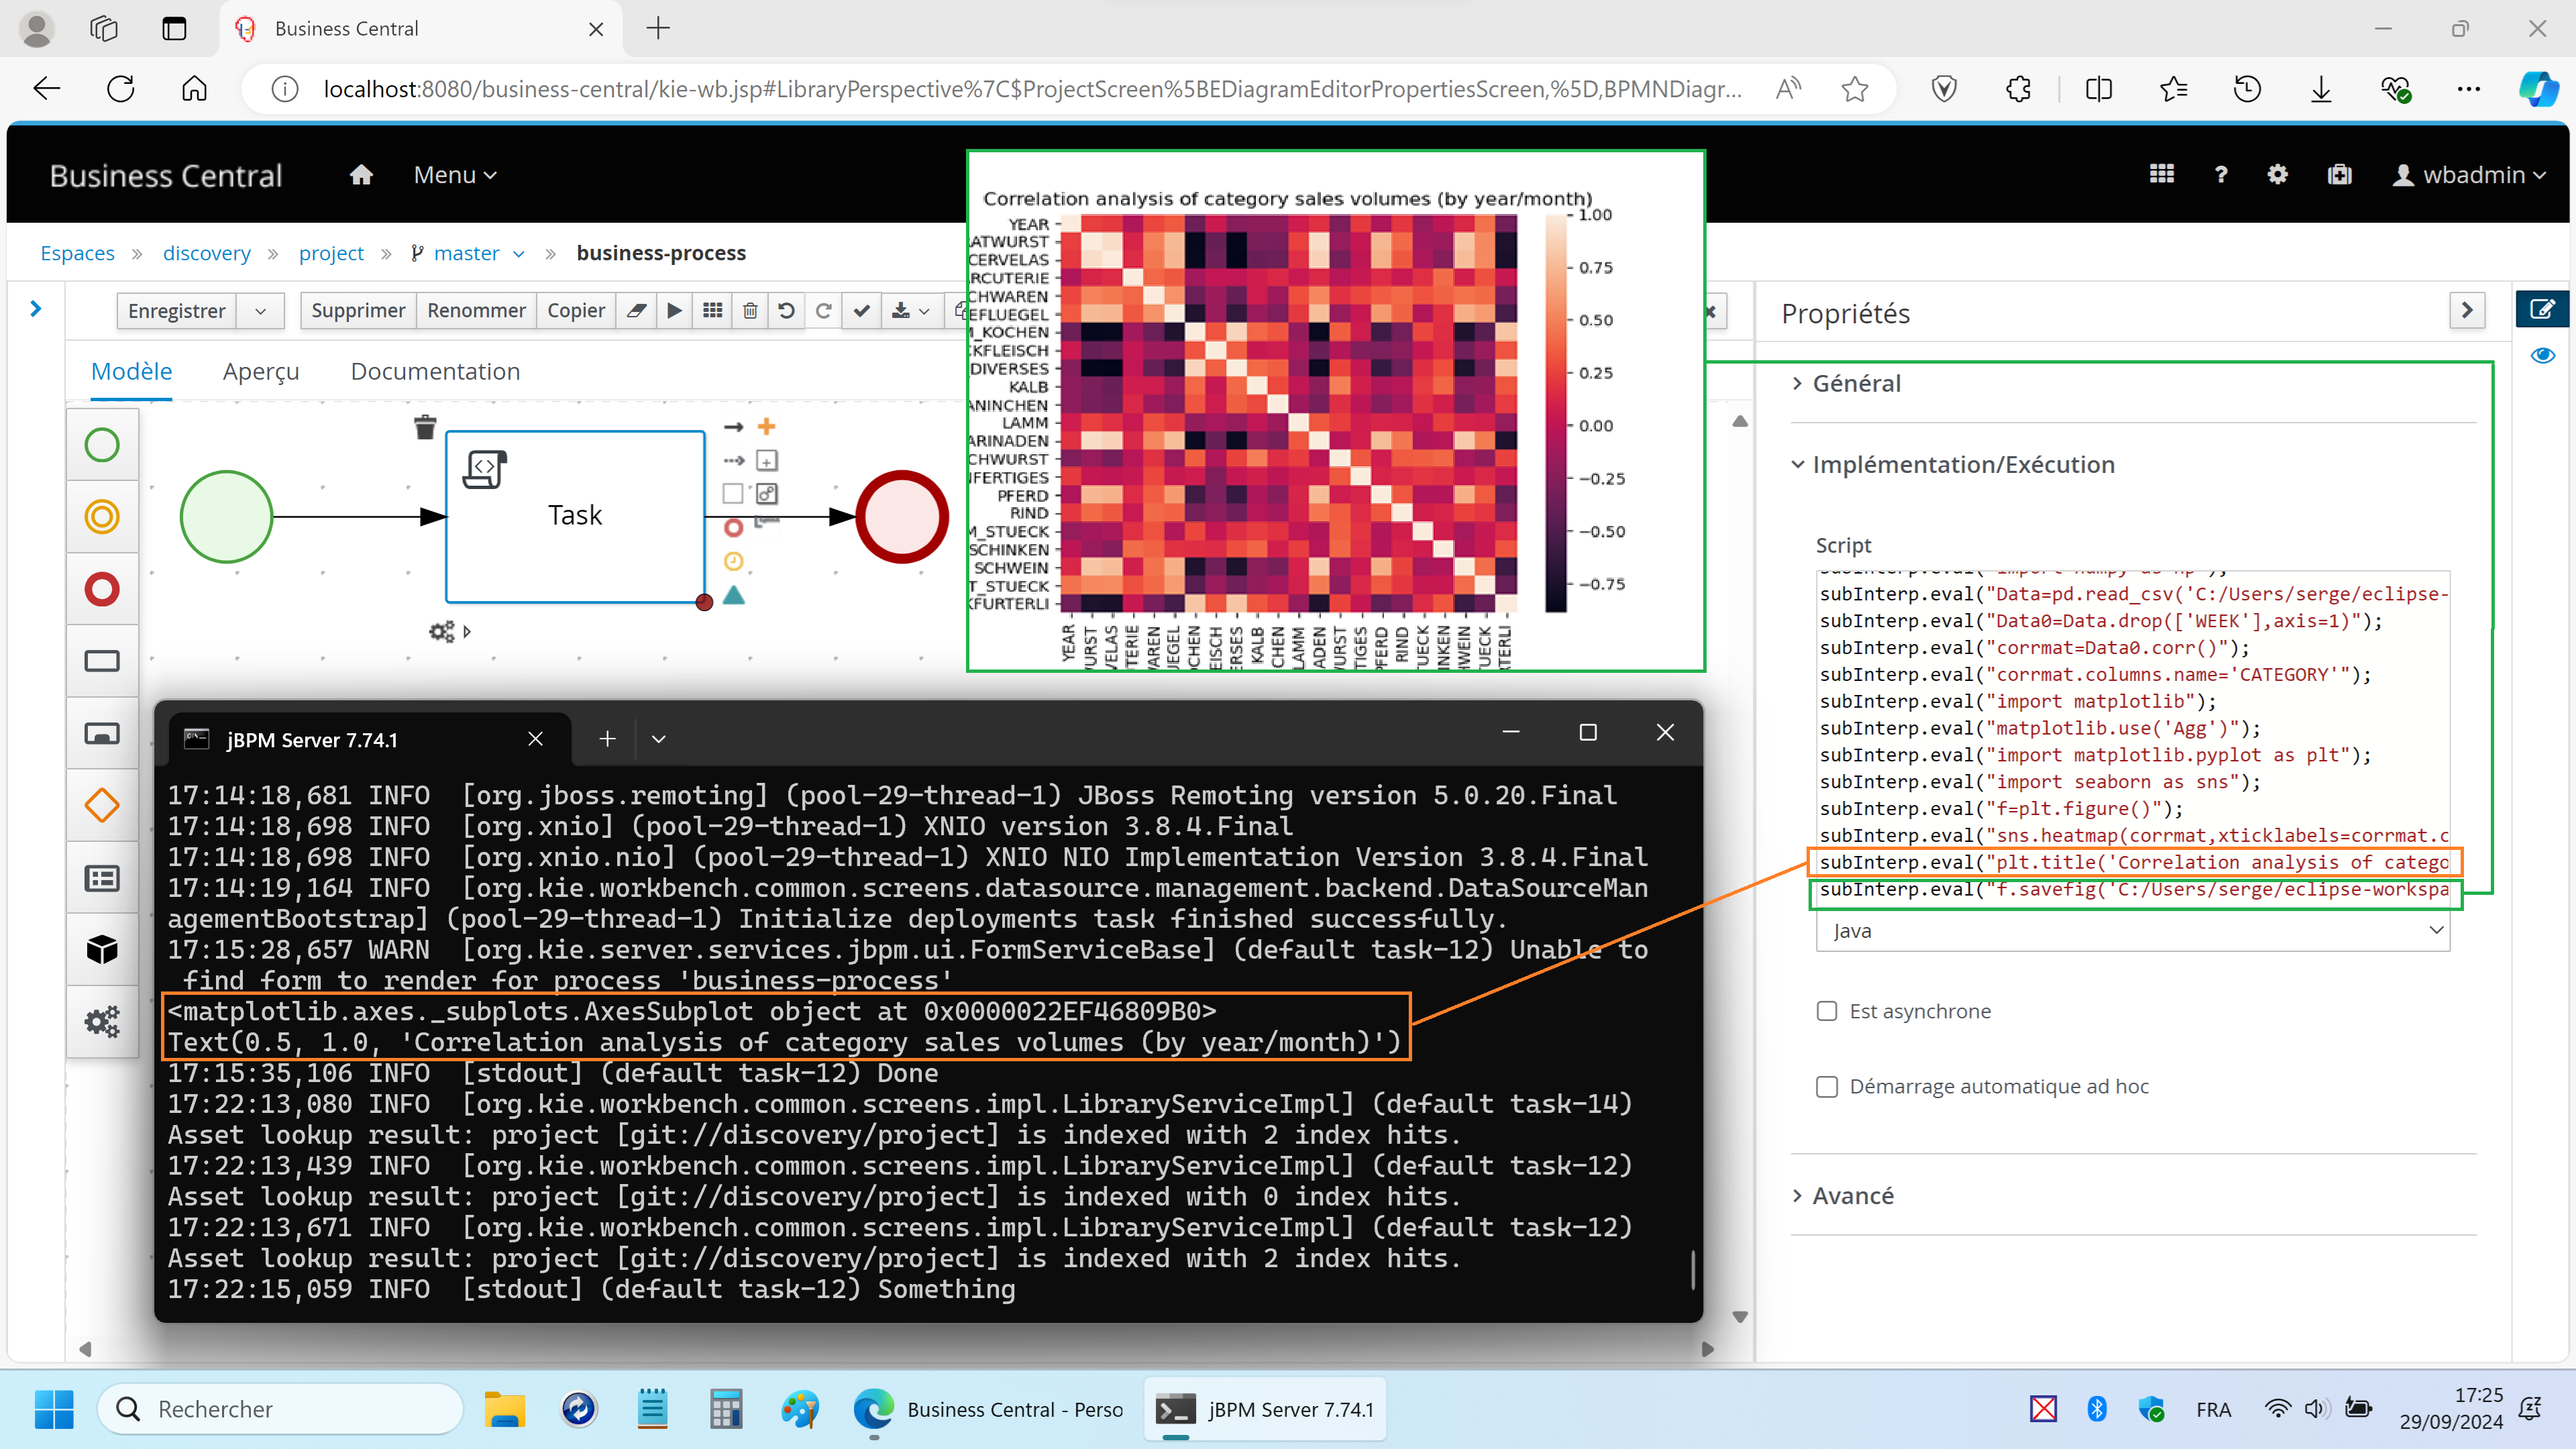
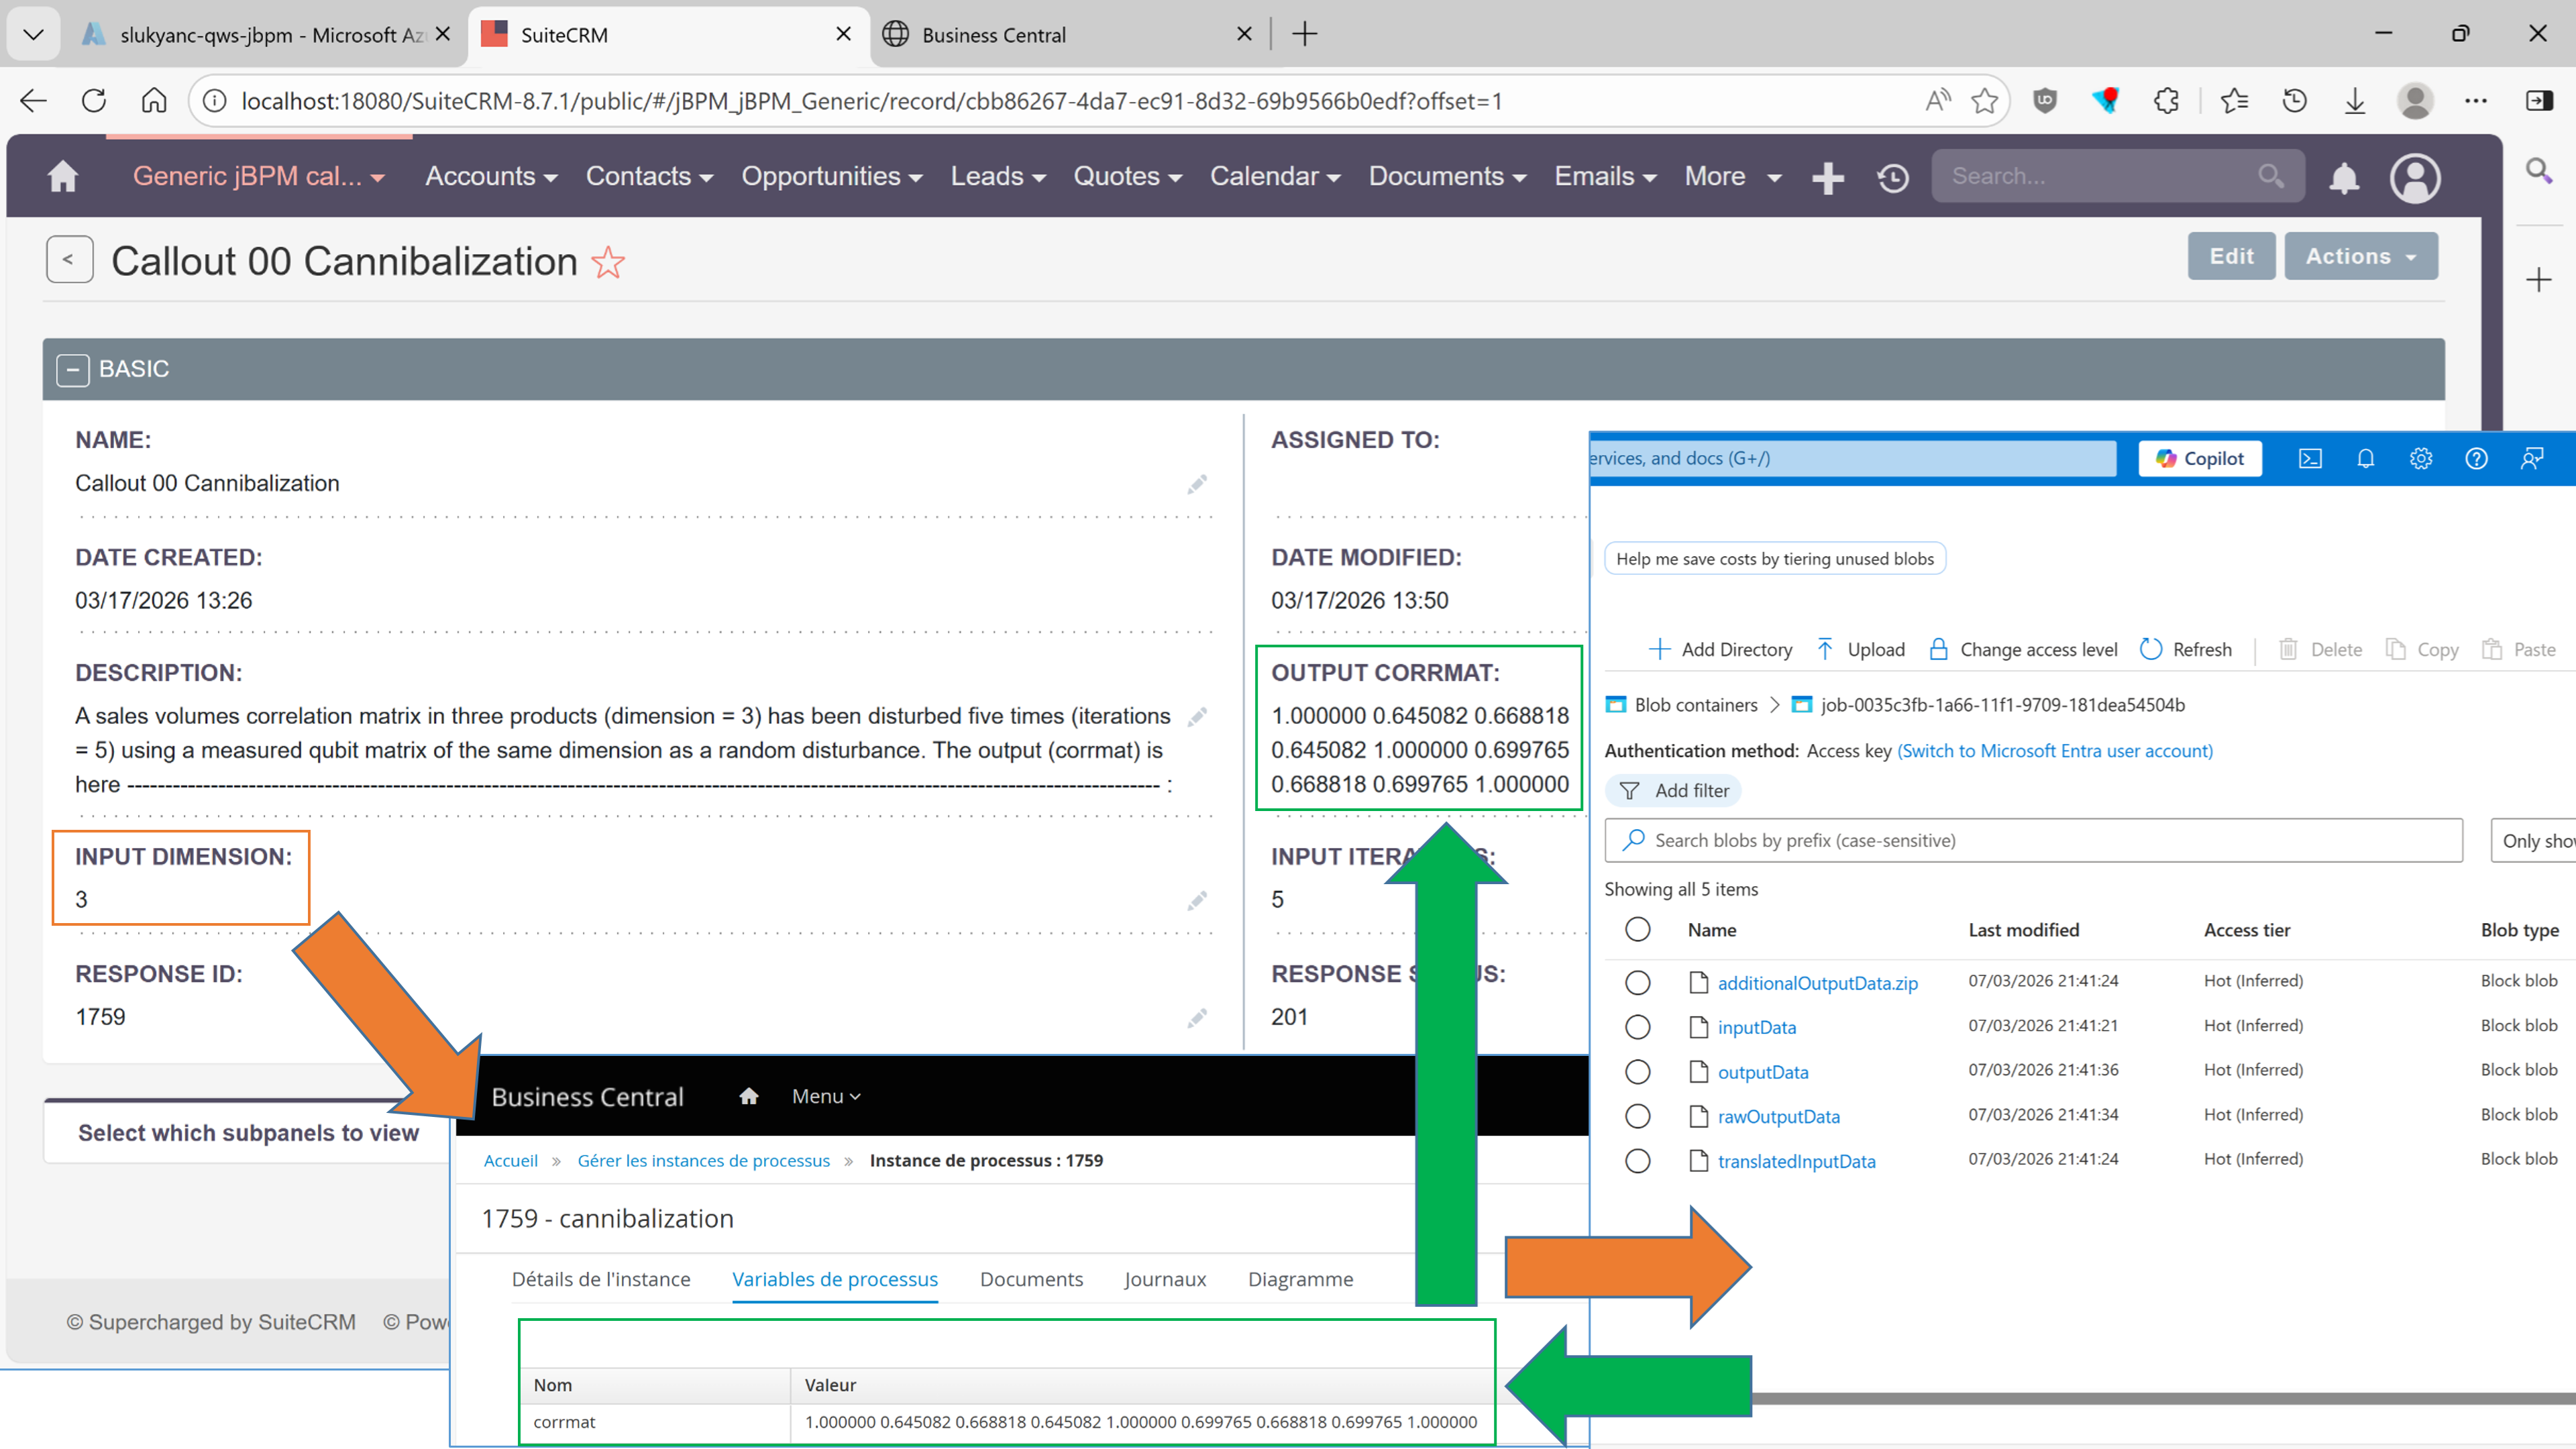
SuiteCRM/Azure Quantum news.

diff --git a/README.md b/README.md
@@ -2,13 +2,17 @@
 
 ## Breaking News
 
+[SuiteCRM](https://suitecrm.com/) (the open-source Customer Relationship Management system) calls [Microsoft Azure Quantum](https://azure.microsoft.com/en-us/solutions/quantum-computing) to introduce external disturbance in the product correlation ("cannibalization") matrix: that is the plot behind the Cannibalization Analysis solution for [jBPM](https://www.jbpm.org/). This Enterprise AI (except for Azure Quantum) is free and open-source. Follow the related post series [here](https://www.linkedin.com/posts/lukyanchikov_suitecrm-jbpm-microsoft-azure-quantum-architecture-activity-7454441118424932352-fjR8?utm_source=share&utm_medium=member_desktop&rcm=ACoAAABc_osBqiCyXlbHS_akR6ldzAB3-rdBpz8).
+
+![Cannibalization Analysis user interface in SuiteCRM](Cannibalization.png)
+
 [OpenEMR](https://www.open-emr.org/) (the open-source Electronic Medical Record system) - now extended with Stroke Prediction solution interface whose logic is deployed in [jBPM](https://www.jbpm.org/) (the open-source orchestration engine). Production-level Health AI is here and is for anyone. Follow the related post series [here](https://www.linkedin.com/posts/lukyanchikov_openemr-jbpm-healthai-activity-7284482601745022979-re9f?utm_source=share&utm_medium=member_desktop).
 
 ![Stroke Prediction user interface in OpenEMR](Stroke.png)
 
 [jBPM](https://www.jbpm.org/) orchestrating [Python](https://pypi.org/project/jep/3.3.3/). Open source from A to Z, zero customization required to begin. Follow the related post series [here](https://www.linkedin.com/posts/lukyanchikov_jbpm-httpswwwjbpmorg-orchestrating-activity-7246441443475472386-7ceC?utm_source=share&utm_medium=member_desktop).
 
-![jBPM orchestrating Python](Cannibalization.png)
+![jBPM orchestrating Python](Genesis.png)
 
 ## Articles
 